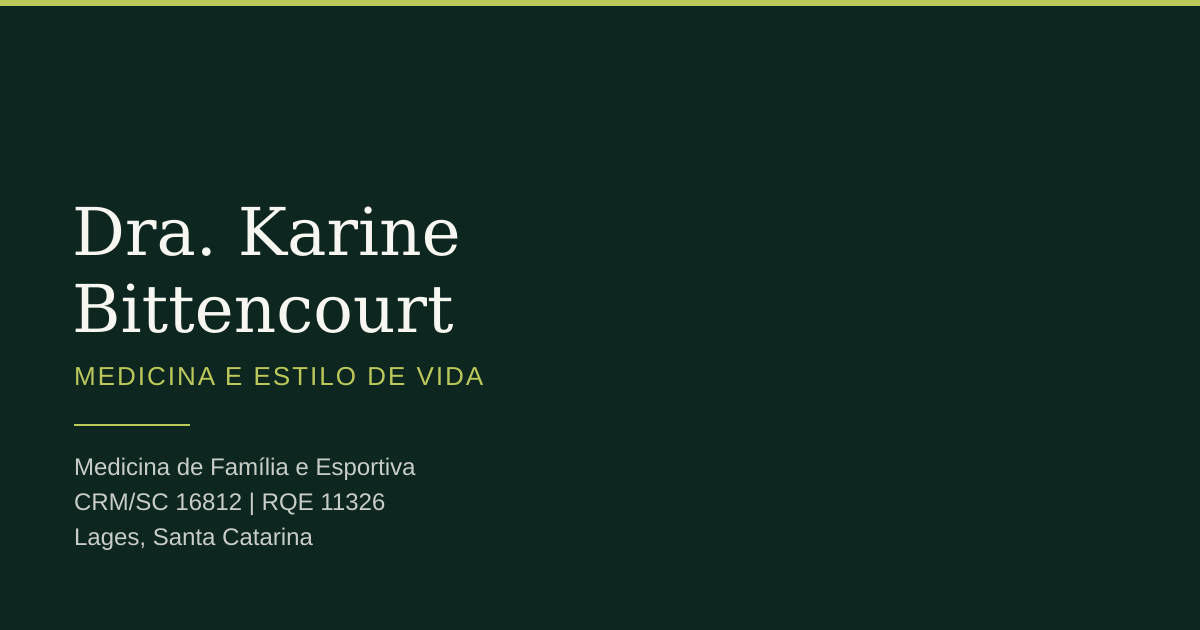
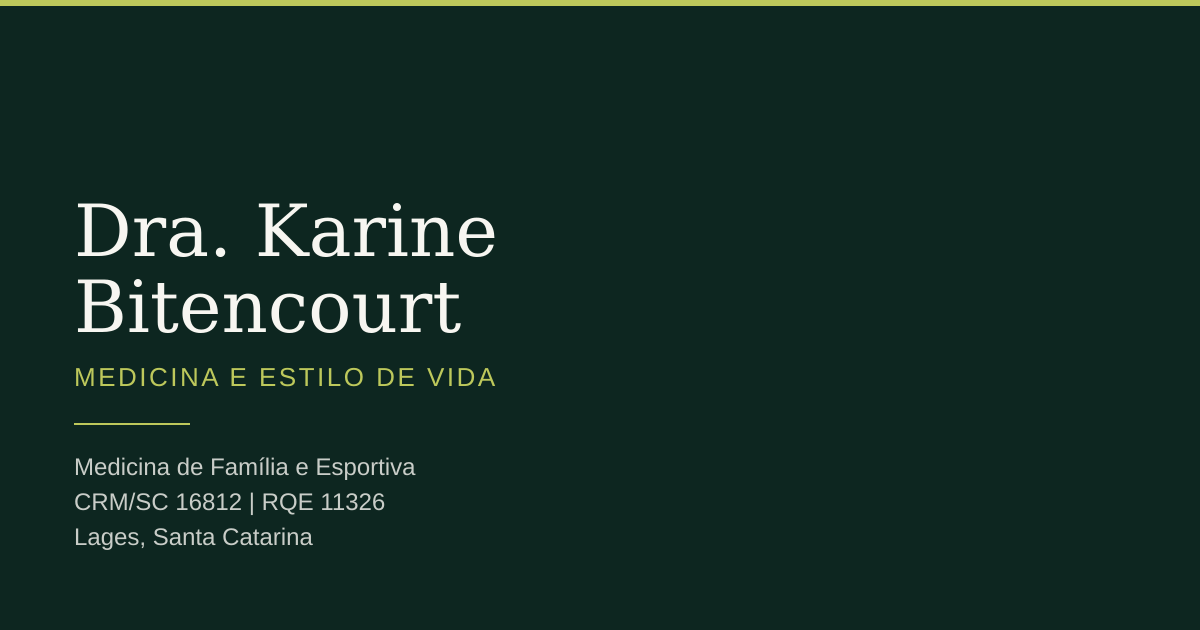
fix: grafia do nome Bitencourt (um T) em todo o site e na og-image
Claude-Session: https://claude.ai/code/session_016Q9JmKVA4CktJBrUFhR3Ea

Changed region(s): [[0.0617, 0.3016, 0.4317, 0.5429], [0.0617, 0.573, 0.4317, 0.6333], [0.0617, 0.6635, 0.1542, 0.6937]]

diff --git a/src/data/site.ts b/src/data/site.ts
@@ -4,7 +4,7 @@ const crm = '16812';
 const rqe = '11326';
 
 export const doctor = {
-  name: 'Dra. Karine Bittencourt',
+  name: 'Dra. Karine Bitencourt',
   positioning: 'Medicina e estilo de vida',
   practiceAreas: 'Medicina de Família e Esportiva',
   crm,
@@ -229,9 +229,9 @@ export const faqItems = [
 ];
 
 export const seo = {
-  title: 'Dra. Karine Bittencourt | Medicina Esportiva em Lages',
+  title: 'Dra. Karine Bitencourt | Medicina Esportiva em Lages',
   description:
-    'Dra. Karine Bittencourt em Lages/SC: medicina, estilo de vida e acompanhamento para quem pratica esporte ou quer começar a se movimentar com segurança.',
+    'Dra. Karine Bitencourt em Lages/SC: medicina, estilo de vida e acompanhamento para quem pratica esporte ou quer começar a se movimentar com segurança.',
   ogImageAlt:
 `Cartão em fundo verde escuro com o nome ${doctor.name}, ${doctor.registration} e ${doctor.city}, ${doctor.stateFull}`,
   themeColor: '#173c32',

diff --git a/src/styles/global.css b/src/styles/global.css
@@ -1,5 +1,5 @@
 /* =========================================================
-   Dra. Karine Bittencourt — redesign editorial contemporâneo
+   Dra. Karine Bitencourt — redesign editorial contemporâneo
    Tokens, reset, tipografia e sistema de componentes
    ========================================================= */
 

diff --git a/README.md b/README.md
@@ -1,4 +1,4 @@
-# Site — Dra. Karine Bittencourt
+# Site — Dra. Karine Bitencourt
 
 Site institucional estático, construído com [Astro](https://astro.build) + TypeScript, sem
 backend, sem CMS e com o mínimo de JavaScript necessário.
